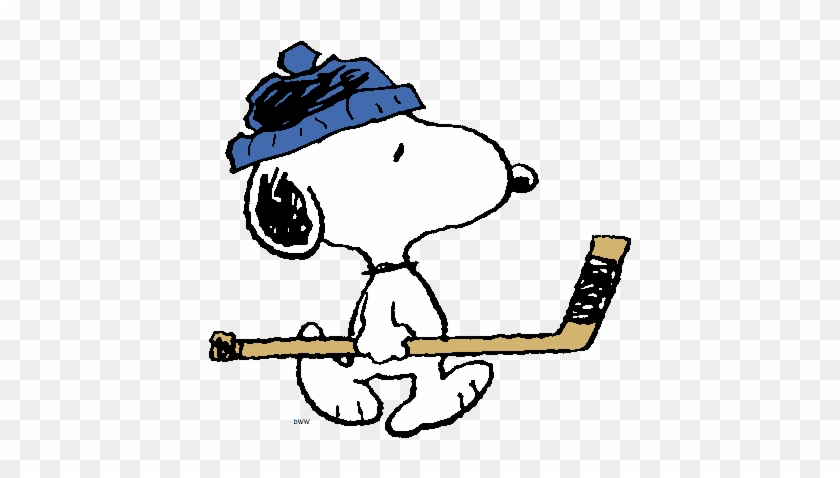
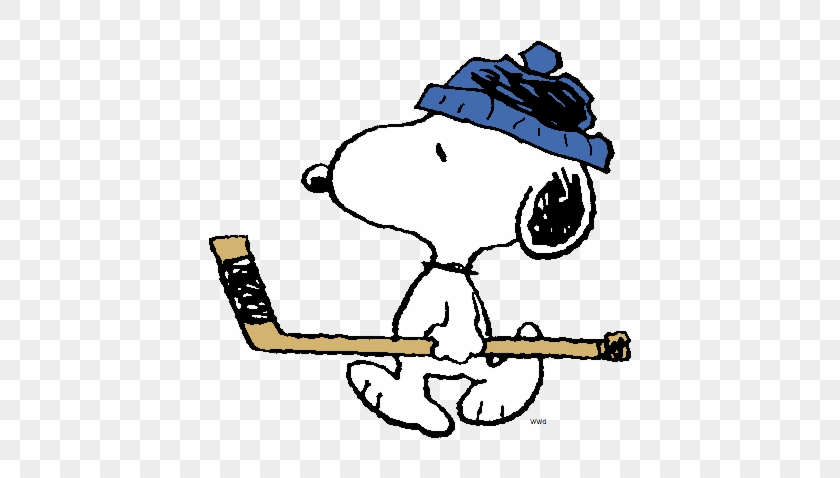
resouces images

diff --git a/templates/resources.html b/templates/resources.html
@@ -94,12 +94,12 @@
 
                       </div>
                       <div style="width:300px; height:300px; float:right;">
-                        <img src="https://pbs.twimg.com/media/De_uU5FWAAA8p1D.jpg" alt="Charlie" style="width:300px;height:300px;">
+                        <img src="static/charliebrown.png" alt="Charlie" style="width:300px;height:300px;">
                       </div>
                     </div>
                     <div style="width:800px; height:200px;">
                       <div style="width:200px; height:200px; float:left;">
-                        <img src="https://vignette.wikia.nocookie.net/peanuts/images/e/eb/Woodstock5.jpg/revision/latest?cb=20160508092305" alt="Woodstock" style="width:200px;height:200px;">
+                        <img src="static/woodstock.png" alt="Woodstock" style="width:200px;height:200px;">
                       </div>
                       <div style="width:400px; height:200px; float:left;">
                         <br>
@@ -109,7 +109,7 @@
                         Refer to the <a href="https://www.cs.princeton.edu/ugrad/independent-work/important-steps-and-deadlines" target="_blank">schedule</a> for a comprehensive list of deadlines to be met on your IW/Thesis journey.
                       </div>
                       <div style="width:200px; height:200px; float:right;">
-                        <img src="https://i.pinimg.com/originals/3d/f4/76/3df4760b7c03022ff5df069e86c9fddd.png" alt="Snoopy" style="width:200px;height:200px;">
+                        <img src="static/hockey.png" alt="Snoopy" style="width:200px;height:200px;">
                       </div>
                     </div>
                     <br>

diff --git a/templates/about.html b/templates/about.html
@@ -123,12 +123,12 @@
                    <div style="width:600px;height:300px;">
                      <div style="width:300px;height:200px;float:left">
                        <img src="https://upload.wikimedia.org/wikipedia/commons/f/f1/Princetonshieldlarge.png" alt="Princeton" style="width:150px;height:200px;"> <br />
-                       <a href="https://www.princetoncourses.com/">Princeton Courses</a> 
+                       <a href="https://www.princetoncourses.com/">Princeton Courses</a>
                        <br>
                        Inspiration
                      </div>
                      <div style="width:300px;height:200px;float:right">
-                       <img src="https://drawinghowtodraw.com/stepbystepdrawinglessons/wp-content/uploads/2010/03/finished-snoopy-dancing.png" alt="Snoop Dog" style="width:150px;height:200px;"> <br />
+                       <img src="static/joecool.png" alt="Snoop Dog" style="width:150px;height:200px;"> <br />
                        Snoopy
                      </div>
                    </div>
